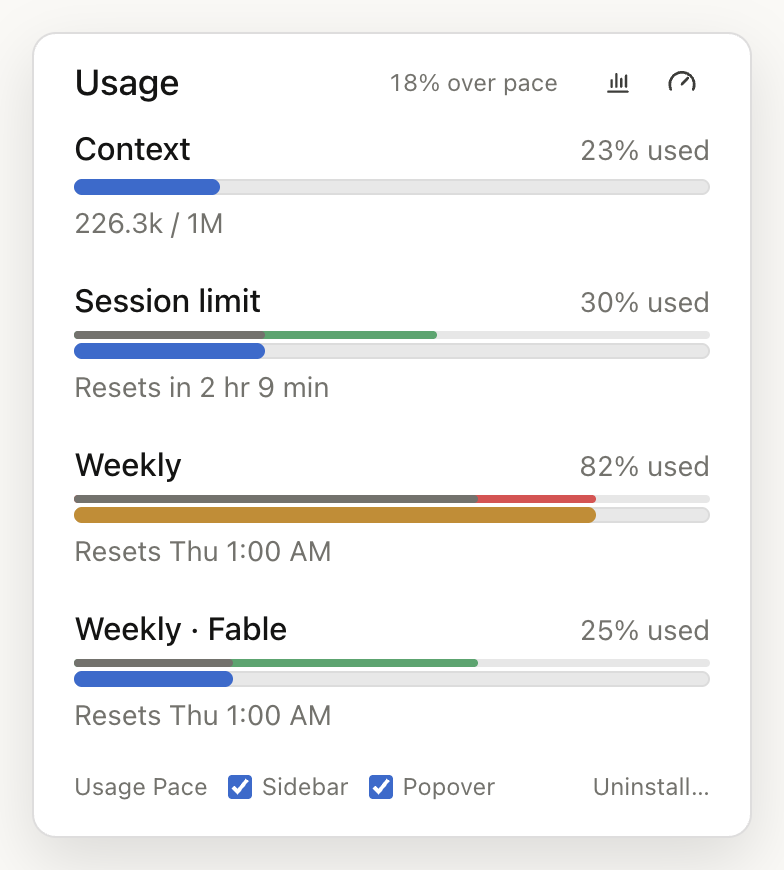
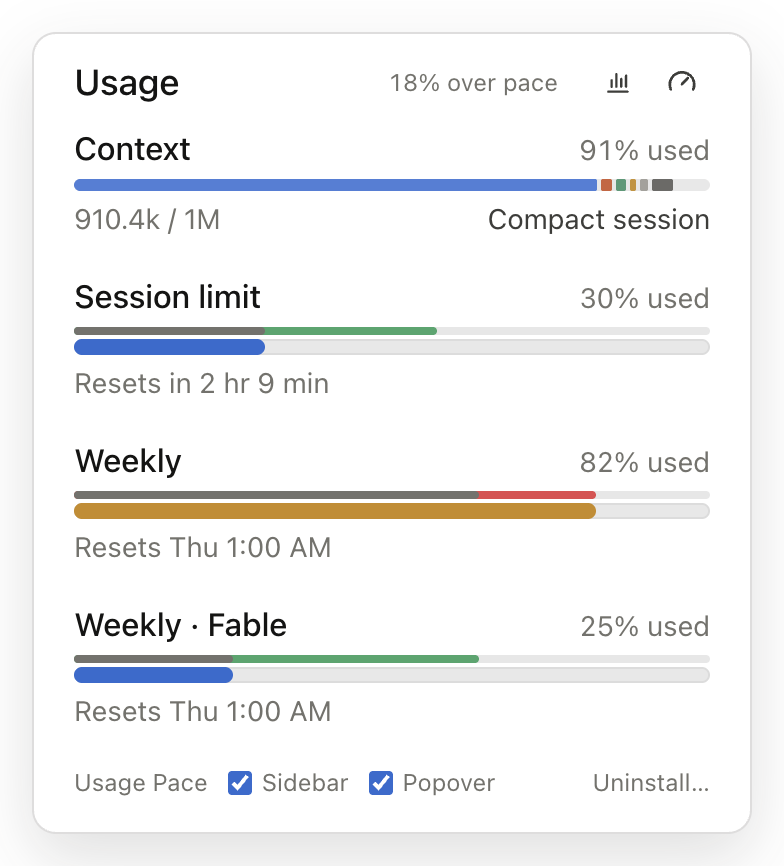
Color the context bar like Claude and show more context in screenshots
The popover's context now copies the session rail's bar, colored by what
fills the context (messages, tools, skills, …), and falls back to a
plain bar without it. The demo rail draws such a bar too.

The screenshots show the context at 58%, 75% and 91%, where Compact
session appears, on a transparent background.

diff --git a/Extension/widget.js b/Extension/widget.js
@@ -509,7 +509,9 @@
   // conversation. The card stays mounted while collapsed and marks its
   // headline with data-rail-context-summary and data-rail-context-pct, so the
   // popover mirrors it above the limits, with a button that presses the
-  // card's own. With the rail hidden, the button shows the rail instead.
+  // card's own, and a copy of the card's bar colored by what fills the
+  // context (messages, tools, skills…). With the rail hidden, the button
+  // shows the rail instead.
   const COMPACT = /^(Compact session|Sitzung komprimieren)$/i;
   const SHOW_RAIL = 'button[aria-label="Show session rail"], button[aria-label="Sitzungsleiste anzeigen"]';
 
@@ -517,9 +519,10 @@
     const summary = document.querySelector('section [data-rail-context-summary]');
     if (!summary) return null;
     const pct = Number(summary.getAttribute('data-rail-context-pct') ?? NaN);
-    const compact = [...summary.closest('section').querySelectorAll('button')]
-      .find((button) => COMPACT.test(button.textContent.trim())) ?? null;
-    return { text: summary.textContent.trim(), pct: Number.isFinite(pct) ? clamp(pct, 0, 100) : null, compact };
+    const section = summary.closest('section');
+    const compact = [...section.querySelectorAll('button')].find((button) => COMPACT.test(button.textContent.trim())) ?? null;
+    const bar = section.querySelector('[data-cds="StackedMeter"]');
+    return { text: summary.textContent.trim(), pct: Number.isFinite(pct) ? clamp(pct, 0, 100) : null, compact, bar };
   }
 
   // Same markup and classes as the rows of Claude's popover; only the bar is
@@ -533,6 +536,7 @@
     );
     const track = element('div', 'up-context-track');
     track.append(element('div', 'up-context-fill'));
+    const stacked = element('div', 'up-context-stacked');
     const foot = element('div', 'up-context-foot text-footnote text-muted-as-secondary');
     foot.append(
       element('span', 'up-context-caption'),
@@ -541,8 +545,23 @@
         (context ? context.compact : document.querySelector(SHOW_RAIL))?.click();
       }),
     );
-    block.append(head, track, foot);
+    block.append(head, track, stacked, foot);
     return block;
+  }
+
+  // What each popover's bar copy was made from, to copy again on changes.
+  const barSources = new WeakMap();
+
+  // A copy that keeps the look but nothing to focus, hover or point to.
+  function quietCopy(node) {
+    const copy = node.cloneNode(true);
+    for (const element of [copy, ...copy.querySelectorAll('*')]) {
+      for (const { name } of [...element.attributes]) {
+        if (name === 'id' || name === 'tabindex' || name === 'role' || name.startsWith('aria-')) element.removeAttribute(name);
+      }
+    }
+    copy.setAttribute('aria-hidden', 'true');
+    return copy;
   }
 
   function setText(node, text) {
@@ -572,8 +591,16 @@
     setText(block.querySelector('.up-context-title'), text.context);
     setText(block.querySelector('.up-context-value'), pct === null ? (context?.text ?? '') : text.used(percent));
     setText(block.querySelector('.up-context-caption'), pct === null ? '' : context.text);
+    // Claude's colored bar where the card has one, else a plain bar.
+    const stacked = block.querySelector('.up-context-stacked');
+    const source = context?.bar?.outerHTML ?? '';
+    if ((barSources.get(stacked) ?? '') !== source) {
+      barSources.set(stacked, source);
+      stacked.replaceChildren(...(context?.bar ? [quietCopy(context.bar)] : []));
+    }
+    setHidden(stacked, !source);
     const track = block.querySelector('.up-context-track');
-    setHidden(track, pct === null);
+    setHidden(track, pct === null || Boolean(source));
     const fill = track.firstElementChild;
     const width = (pct ?? 0) + '%';
     if (fill.style.width !== width) fill.style.width = width;

diff --git a/docs/demo/demo.js b/docs/demo/demo.js
@@ -146,6 +146,8 @@
 
   document.documentElement.lang = text.locale;
   document.documentElement.dataset.theme = state.theme;
+  // Scripts/screenshots.js: no toolbar and no page background.
+  if (params.has('capture')) document.documentElement.dataset.capture = '';
   // Every load starts like a fresh install: rows open, both places on.
   for (const key of Object.keys(localStorage)) if (key.startsWith('usage-pace:')) localStorage.removeItem(key);
 
@@ -262,8 +264,34 @@
 
   // Session rail ------------------------------------------------------------
 
-  // The extension reads the context from the rail's headline and presses the
-  // rail's own Compact button; compacting here drops the context to 12%.
+  // The extension reads the context from the rail's headline, copies the
+  // rail's colored bar (a StackedMeter, one segment per kind of content) and
+  // presses the rail's own Compact button; compacting here drops the
+  // context to 12%.
+  const SEGMENTS = [
+    { name: 'MCP tools', pct: 1.6, color: '#d0603a' },
+    { name: 'System tools', pct: 1.6, color: '#4c9a75' },
+    { name: 'Skills', pct: 1, color: '#c9922e' },
+    { name: 'System prompt', pct: 1.2, color: '#a3a19b' },
+    { name: 'Autocompact buffer', pct: 3.3, color: '#6b6a66' },
+  ];
+
+  function stackedMeter(pct) {
+    const fixed = SEGMENTS.reduce((sum, segment) => sum + segment.pct, 0);
+    const segments = [{ name: 'Messages', pct: Math.max(0, pct - fixed), color: '#4a7fd9' }, ...SEGMENTS];
+    const meter = document.createElement('div');
+    meter.setAttribute('data-cds', 'StackedMeter');
+    meter.className = 'stacked-meter';
+    meter.append(...segments.map((segment) => {
+      const part = document.createElement('span');
+      part.dataset.category = segment.name;
+      part.style.width = segment.pct + '%';
+      part.style.backgroundColor = segment.color;
+      return part;
+    }));
+    return meter;
+  }
+
   const context = CONTEXT[state.context];
   const rail = document.getElementById('rail');
   if (context.pct === null) {
@@ -279,7 +307,8 @@
     headline.setAttribute('data-rail-context-summary', '');
     headline.setAttribute('data-rail-context-pct', String(context.pct));
     headline.textContent = context.summary;
-    section.append(headline);
+    let meter = stackedMeter(context.pct);
+    section.append(headline, meter);
     if (context.pct >= COMPACT_FROM) {
       const compact = document.createElement('button');
       compact.type = 'button';
@@ -287,6 +316,7 @@
       compact.addEventListener('click', () => {
         headline.setAttribute('data-rail-context-pct', '12');
         headline.firstChild.nodeValue = '120.4k / 1M';
+        meter.replaceWith(meter = stackedMeter(12));
         compact.remove();
       });
       section.append(compact);

diff --git a/Tests/fake-claude/main.js b/Tests/fake-claude/main.js
@@ -10,7 +10,7 @@ const PAGE = `<!doctype html><html lang="en" style="--cds-fill-accent:#2a78d6"><
   <div><a>Artifacts</a><a>Customize</a><button id="more" aria-expanded="false" class="nav-row"><span data-cds="Icon" aria-hidden="true" style="font-size:16px">&#xe000;</span><span class="text-muted">More</span></button></div>
   <div class="dframe-recents-by-mode"><div class="df-label-inset"><button><span>Projects</span></button></div><ul><li>Booking UI</li></ul></div>
 </div>
-<aside><section><span data-rail-context-summary data-rail-context-pct="37">74k / 200k</span><button onclick="window.compacted = (window.compacted ?? 0) + 1">Compact session</button></section></aside>
+<aside><section><span data-rail-context-summary data-rail-context-pct="37">74k / 200k</span><div data-cds="StackedMeter" role="img" aria-label="Context" tabindex="0"><span style="width:30%;background-color:rgb(74, 127, 217)"></span><span style="width:7%;background-color:rgb(208, 96, 58)"></span></div><button onclick="window.compacted = (window.compacted ?? 0) + 1">Compact session</button></section></aside>
 <div id="portal-root"></div>
 </body></html>`;
 
@@ -80,7 +80,12 @@ function state(contents) {
         pace: popover.querySelector('.up-popover-pace')?.textContent ?? null,
         lines: [...popover.querySelectorAll('[role="meter"]')].map((bar) => bar.closest('[data-cds="Meter"]').previousElementSibling?.classList.contains('up-time') ?? false),
         paceBeforeIcons: popover.querySelector('.up-popover-pace')?.nextElementSibling?.className ?? null,
-        context: popover.querySelector('.up-context') && [...popover.querySelectorAll('.up-context span, .up-context button')].map((node) => node.textContent).join(' '),
+        context: popover.querySelector('.up-context') && [...popover.querySelectorAll('.up-context-title, .up-context-value, .up-context-caption, .up-context-action')].map((node) => node.textContent).join(' '),
+        contextBar: popover.querySelector('.up-context-stacked:not([hidden]) [data-cds="StackedMeter"]')
+          ? [...popover.querySelectorAll('.up-context-stacked [data-cds="StackedMeter"] > span')].map((part) => part.style.backgroundColor).join(' ')
+          : null,
+        contextBarQuiet: [...popover.querySelectorAll('.up-context-stacked [role], .up-context-stacked [tabindex]')].length === 0,
+        plainBarHidden: popover.querySelector('.up-context-track')?.hidden ?? null,
         contextFirst: popover.querySelector('.usage-rows')?.firstElementChild.classList.contains('up-context') ?? false,
         contextWidth: popover.querySelector('.up-context-fill')?.style.width ?? null,
         compacted: window.compacted ?? 0,

diff --git a/Scripts/screenshots.js b/Scripts/screenshots.js
@@ -9,10 +9,11 @@ const path = require('path');
 const ROOT = path.join(__dirname, '..');
 const OUT = path.join(ROOT, 'docs', 'screenshots');
 
-// usage and context name scenarios in docs/demo/demo.js.
+// usage and context name scenarios in docs/demo/demo.js. Every shot keeps
+// the context at 50% or more, where Claude offers Compact session.
 const SHOTS = [
-  { name: 'session-tight', usage: 'session', context: 'low' },
-  { name: 'weekly-tight', usage: 'weekly', context: 'low' },
+  { name: 'session-tight', usage: 'session', context: 'mid' },
+  { name: 'weekly-tight', usage: 'weekly', context: 'high' },
   { name: 'compact', usage: 'under', context: 'compact' },
 ];
 const THEMES = ['dark', 'light'];
@@ -79,7 +80,15 @@ app.whenReady().then(async () => {
   const server = await serve();
   const { port } = server.address();
   fs.mkdirSync(OUT, { recursive: true });
-  const win = new BrowserWindow({ show: false, width: 1100, height: 760, webPreferences: { backgroundThrottling: false } });
+  // Transparent around the popover, so the images sit on any page color.
+  const win = new BrowserWindow({
+    show: false,
+    width: 1100,
+    height: 760,
+    transparent: true,
+    backgroundColor: '#00000000',
+    webPreferences: { backgroundThrottling: false },
+  });
   const contents = win.webContents;
   contents.on('console-message', (event) => {
     if (event.level === 'error') console.error('demo: ' + event.message);
@@ -87,7 +96,7 @@ app.whenReady().then(async () => {
 
   for (const shot of SHOTS) {
     for (const theme of THEMES) {
-      const query = new URLSearchParams({ usage: shot.usage, context: shot.context, lang: LANG, theme });
+      const query = new URLSearchParams({ usage: shot.usage, context: shot.context, lang: LANG, theme, capture: '1' });
       await win.loadURL(`http://127.0.0.1:${port}/docs/demo/?${query}`);
       await settled(contents);
       for (const [part, rect] of Object.entries(await regions(contents))) {

diff --git a/docs/demo/demo.css b/docs/demo/demo.css
@@ -50,6 +50,11 @@ body {
 
 button { font: inherit; color: inherit; }
 
+/* Screenshots (Scripts/screenshots.js) */
+:root[data-capture], :root[data-capture] body { background: transparent; }
+:root[data-capture] .toolbar { display: none; }
+:root[data-capture] .stage { min-height: 100vh; }
+
 /* Demo controls */
 .toolbar {
   display: flex;
@@ -188,6 +193,11 @@ button { font: inherit; color: inherit; }
 .meter-fill { height: 100%; border-radius: inherit; background: var(--cds-fill-accent); }
 [data-variant="warning"] .meter-fill { background: var(--cds-fill-warning); }
 [data-variant="danger"] .meter-fill { background: var(--cds-fill-danger); }
+
+/* The rail's context bar: one segment per kind of content, free space left
+   as track. */
+.stacked-meter { display: flex; gap: 2px; height: 6px; overflow: hidden; border-radius: 999px; background: var(--cds-alpha-2); }
+.stacked-meter > span { flex: none; min-width: 3px; height: 100%; border-radius: 1px; }
 
 /* Utility classes from Claude's markup */
 .flex { display: flex; }

diff --git a/Extension/widget.css b/Extension/widget.css
@@ -37,6 +37,8 @@
 /* Context of the session, mirrored from the session rail into the popover */
 .up-context-track { height: 8px; border-radius: 99px; overflow: hidden; background: var(--cds-alpha-2, color-mix(in srgb, currentColor 14%, transparent)); box-shadow: inset 0 0 0 1px var(--cds-alpha-1, transparent); }
 .up-context-track[hidden] { display: none; }
+.up-context-stacked[hidden] { display: none; }
+.up-context-stacked > * { width: 100%; pointer-events: none; }
 .up-context-fill { height: 100%; border-radius: inherit; background: var(--cds-fill-accent, #2a78d6); transition: width .2s ease-out; }
 .up-context-fill.up-context-full { background: var(--cds-fill-warning, #e0913a); }
 .up-context-foot { display: flex; align-items: baseline; justify-content: space-between; gap: 8px; }

diff --git a/README.md b/README.md
@@ -12,7 +12,7 @@ A **Usage** row below **More** shows how far above or below pace your weekly usa
 - Bar: usage, exactly as in Claude's own usage view.
 - Line above it: time elapsed in that window. Grey up to where usage and time agree, then green where time is ahead of usage (room to spare), or orange where usage is ahead of time (too fast). Once Claude colors a bar as near its limit, orange turns red.
 
-Claude's usage popover (the ring below the message box) gets the same time lines and the weekly pace next to **Usage**. Above the limits, it shows the **context** of the current session again, with **Compact session** once Claude offers it (from 50%). Claude moved both into the Context card of the session rail, right of the conversation; the popover mirrors that card, so with the rail hidden it offers **Show session rail** instead. A **Usage Pace** row at the bottom turns the sidebar row and the popover additions on or off.
+Claude's usage popover (the ring below the message box) gets the same time lines and the weekly pace next to **Usage**. Above the limits, it shows the **context** of the current session again, in Claude's bar colored by what fills it (messages, tools, skills, …), with **Compact session** once Claude offers it (from 50%). Claude moved both into the Context card of the session rail, right of the conversation; the popover mirrors that card, so with the rail hidden it offers **Show session rail** instead. A **Usage Pace** row at the bottom turns the sidebar row and the popover additions on or off.
 
 <picture>
   <source media="(prefers-color-scheme: dark)" srcset="docs/screenshots/compact-popover-dark.png">
